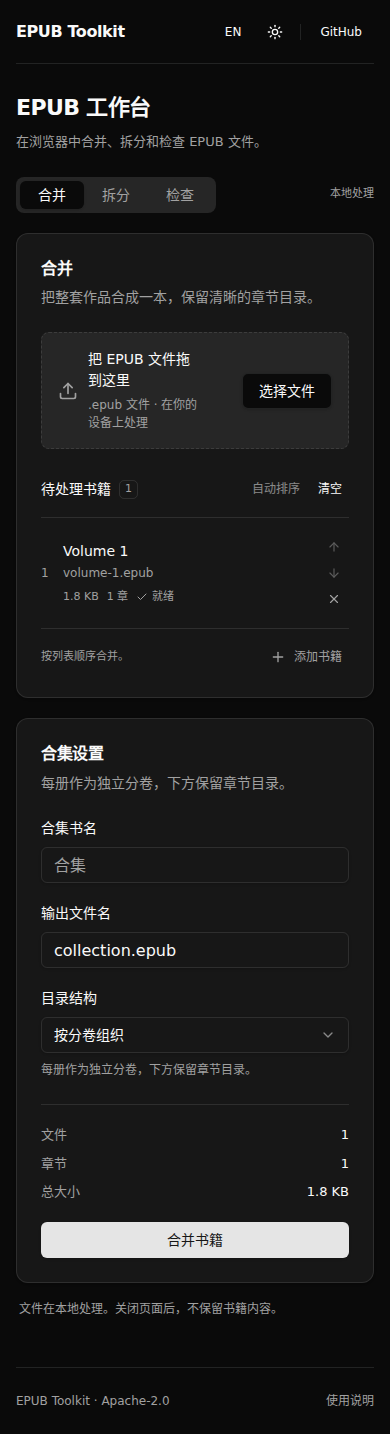
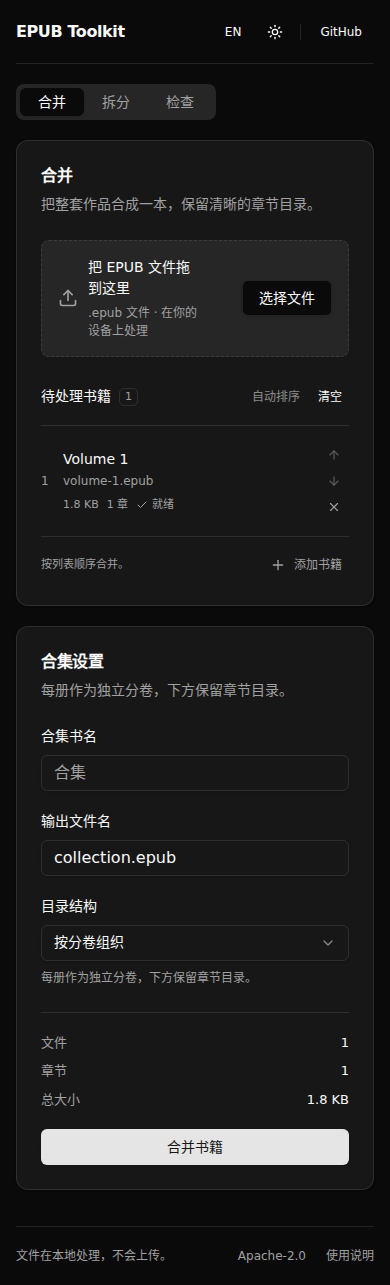
ui: consolidate workspace heading and footer information

diff --git a/web/src/styles.css b/web/src/styles.css
@@ -123,20 +123,8 @@ a:focus-visible {
   background: var(--border);
   margin: 0 8px;
 }
-.page-heading {
-  padding: 44px 0 28px;
-}
-.page-heading h1 {
-  font-size: 24px;
-  line-height: 1.3;
-  font-weight: 600;
-  letter-spacing: -0.6px;
-}
-.page-heading p {
-  color: var(--muted-foreground);
-  margin-top: 8px;
-  max-width: 750px;
-  line-height: 1.7;
+main {
+  padding-top: 24px;
 }
 .workspace-toolbar {
   display: flex;
@@ -146,10 +134,6 @@ a:focus-visible {
 }
 .workspace-toolbar [role="tab"] {
   min-width: 82px;
-}
-.local-note {
-  color: var(--muted-foreground);
-  font-size: 12px;
 }
 .workspace-content {
   margin: 0 !important;
@@ -367,12 +351,6 @@ a:focus-visible {
 .file-summary dd {
   font-variant-numeric: tabular-nums;
 }
-.privacy-note {
-  color: var(--muted-foreground);
-  line-height: 1.7;
-  font-size: 12px;
-  padding: 16px 3px 0;
-}
 .task-status {
   display: flex;
   align-items: center;
@@ -458,33 +436,42 @@ a:focus-visible {
   font-size: 12px;
 }
 .pwa-status {
-  color: var(--muted-foreground);
-  font-size: 12px;
-  padding: 12px 3px 0;
-}
-.pwa-status > span {
   display: flex;
-  gap: 7px;
   align-items: center;
+  flex-wrap: wrap;
+  gap: 12px;
 }
 .pwa-status > div {
   display: flex;
-  gap: 8px;
-  flex-wrap: wrap;
   align-items: center;
+  flex-wrap: wrap;
+  gap: 8px;
 }
-.pwa-status button {
-  margin-top: 8px;
+.offline-status::before {
+  content: "·";
+  padding-right: 12px;
 }
 footer {
   display: flex;
   justify-content: space-between;
-  gap: 16px;
+  align-items: center;
+  flex-wrap: wrap;
+  gap: 12px 24px;
   color: var(--muted-foreground);
   font-size: 12px;
-  margin-top: 64px;
-  padding: 24px 0;
+  margin-top: 40px;
+  padding: 20px 0;
   border-top: 1px solid var(--border);
+}
+.footer-info,
+.footer-links {
+  display: flex;
+  flex-wrap: wrap;
+  align-items: center;
+  gap: 12px;
+}
+.footer-links {
+  gap: 20px;
 }
 footer a:hover {
   color: var(--foreground);
@@ -520,21 +507,15 @@ footer a:hover {
   .header-divider {
     margin: 0 3px;
   }
-  .page-heading {
-    padding: 30px 0 24px;
-  }
-  .page-heading h1 {
-    font-size: 22px;
-  }
-  .page-heading p {
-    font-size: 13px;
+  main {
+    padding-top: 20px;
   }
   .workspace-grid {
     grid-template-columns: minmax(0, 1fr);
     gap: 20px;
   }
-  .local-note {
-    font-size: 11px;
+  .footer-info {
+    gap: 8px;
   }
   .workspace-toolbar [role="tab"] {
     min-width: 64px;

diff --git a/web/src/App.tsx b/web/src/App.tsx
@@ -64,7 +64,7 @@ export function App() {
       <div className="app-shell">
         <header className="site-header">
           <a href={import.meta.env.BASE_URL} className="brand">
-            EPUB Toolkit
+            <h1>EPUB Toolkit</h1>
           </a>
           <nav className="header-tools" aria-label={copy.settings}>
             <Button
@@ -92,10 +92,6 @@ export function App() {
           </nav>
         </header>
         <main>
-          <div className="page-heading">
-            <h1>{copy.intro}</h1>
-            <p>{copy.description}</p>
-          </div>
           <Tabs
             value={w.mode}
             onValueChange={(value) => w.changeMode(value as Mode)}
@@ -109,9 +105,6 @@ export function App() {
                   </TabsTrigger>
                 ))}
               </TabsList>
-              <span className="local-note">
-                {language === "en" ? "Local processing" : "本地处理"}
-              </span>
             </div>
             {(["merge", "split", "inspect"] as const).map((mode) => (
               <TabsContent
@@ -351,8 +344,6 @@ export function App() {
                         </Button>
                       </CardContent>
                     </Card>
-                    <p className="privacy-note">{copy.privacyHint}</p>
-                    <PwaStatus copy={copy} locked={w.locked} />
                   </aside>
                 </motion.div>
               </TabsContent>
@@ -360,14 +351,20 @@ export function App() {
           </Tabs>
         </main>
         <footer>
-          <span>EPUB Toolkit · Apache-2.0</span>
-          <a
-            href="https://github.com/yumizhi/lightweight_epub_merge_tool#readme"
-            target="_blank"
-            rel="noreferrer"
-          >
-            {copy.guide}
-          </a>
+          <div className="footer-info">
+            <span>{copy.privacyHint}</span>
+            <PwaStatus copy={copy} locked={w.locked} />
+          </div>
+          <div className="footer-links">
+            <span>Apache-2.0</span>
+            <a
+              href="https://github.com/yumizhi/lightweight_epub_merge_tool#readme"
+              target="_blank"
+              rel="noreferrer"
+            >
+              {copy.guide}
+            </a>
+          </div>
         </footer>
         <Toaster theme={dark ? "dark" : "light"} closeButton />
       </div>

diff --git a/tests/e2e/workspace.spec.ts b/tests/e2e/workspace.spec.ts
@@ -147,7 +147,7 @@ test("keeps language and theme preferences and fits a phone", async ({
   await page.reload();
   await expect(page.locator("html")).toHaveClass("dark");
   await expect(
-    page.getByRole("heading", { name: "EPUB 工作台" }),
+    page.getByRole("tab", { name: "合并", exact: true }),
   ).toBeVisible();
   await page.getByLabel("选择文件", { exact: true }).setInputFiles(upload(1));
   await expect(page.getByRole("button", { name: "合并书籍" })).toBeEnabled();
@@ -156,8 +156,18 @@ test("keeps language and theme preferences and fits a phone", async ({
       () => document.documentElement.scrollWidth <= innerWidth,
     ),
   ).toBe(true);
+  await expect(page.locator(".task-status")).toHaveCount(0);
+  await expect
+    .poll(() =>
+      page.locator(".workspace-grid").evaluate((grid) => {
+        const [files, settings] = Array.from(grid.children).map((node) =>
+          node.getBoundingClientRect(),
+        );
+        return settings.top >= files.bottom;
+      }),
+    )
+    .toBe(true);
   if (process.env.UPDATE_SCREENSHOTS) {
-    await expect(page.locator(".task-status")).toHaveCount(0);
     await page.screenshot({ path: "docs/mobile-dark.png", fullPage: true });
   }
 });
@@ -181,7 +191,7 @@ test("caches the Pages application and its Worker for offline processing", async
   await context.setOffline(true);
   await page.reload();
   await expect(
-    page.getByRole("heading", { name: "EPUB workspace" }),
+    page.getByRole("heading", { name: "EPUB Toolkit", exact: true }),
   ).toBeVisible();
   await page
     .getByLabel("Choose files", { exact: true })

diff --git a/web/src/i18n.ts b/web/src/i18n.ts
@@ -49,9 +49,8 @@ export const COPY = {
     downloadStarted: "Download started",
     error: "Processing failed",
     privacy: "Your books stay yours.",
-    privacyHint:
-      "Files are processed locally. Nothing is uploaded or saved after you leave.",
-    offline: "Works offline after your first visit",
+    privacyHint: "Files are processed on your device. No uploads.",
+    offline: "Offline ready",
     openSource: "Open source",
     guide: "About this tool",
     language: "Switch to Chinese",
@@ -140,8 +139,8 @@ export const COPY = {
     downloadStarted: "下载已开始",
     error: "请检查以下问题",
     privacy: "你的书，留在你的设备上。",
-    privacyHint: "文件在本地处理。关闭页面后，不保留书籍内容。",
-    offline: "首次访问后可离线使用",
+    privacyHint: "文件在本地处理，不会上传。",
+    offline: "可离线使用",
     openSource: "开源项目",
     guide: "使用说明",
     language: "Switch to English",

diff --git a/web/src/components/PwaStatus.tsx b/web/src/components/PwaStatus.tsx
@@ -1,5 +1,5 @@
 import { useEffect, useState } from "react";
-import { Download, WifiOff } from "lucide-react";
+import { Download } from "lucide-react";
 import { useRegisterSW } from "virtual:pwa-register/react";
 import { Button } from "./ui/button";
 import type { Copy } from "../i18n";
@@ -27,14 +27,10 @@ export function PwaStatus({ copy, locked }: { copy: Copy; locked: boolean }) {
       window.removeEventListener("appinstalled", installed);
     };
   }, []);
+  if (!offlineReady && !install && !needRefresh) return null;
   return (
     <div className="pwa-status">
-      {offlineReady && (
-        <span>
-          <WifiOff size={13} />
-          {copy.offline}
-        </span>
-      )}
+      {offlineReady && <span className="offline-status">{copy.offline}</span>}
       {install && (
         <Button
           variant="ghost"
